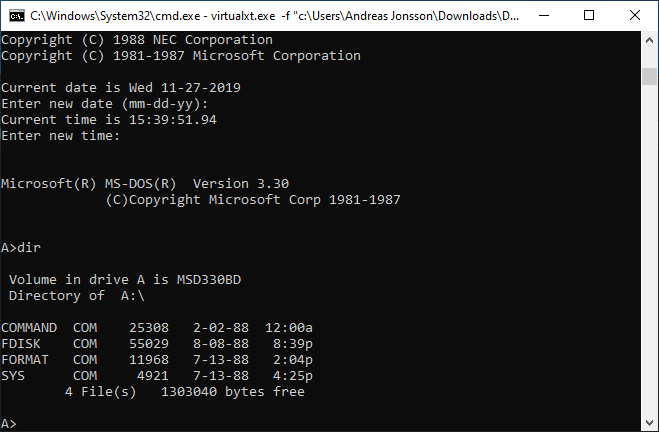
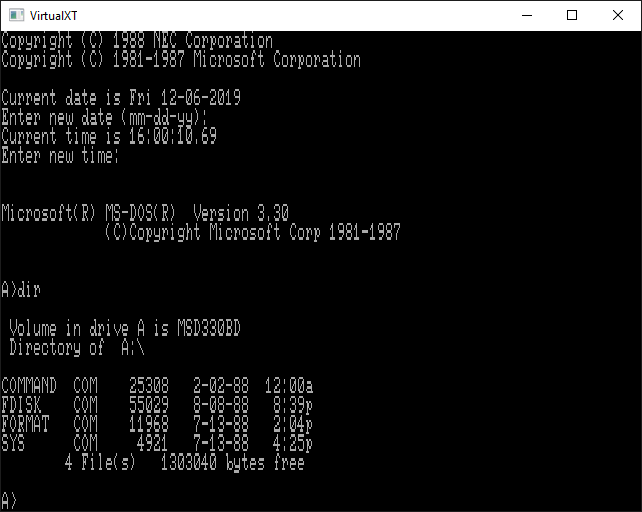
Updated images and fixed issue with cursor.

diff --git a/src/virtualxt.c b/src/virtualxt.c
@@ -171,8 +171,8 @@ static void textmode(unsigned char *mem, unsigned char *font, unsigned char curs
 		blit_char(sdl_surface, font, ch, mem[i+1], (index % 80) * 8, (index / 80) * 8);
 	}
 
-	if (cursor)
-		blit_char(sdl_surface, font, '_', 0x8F, cx * 8, cy * 8);
+	if (cursor && vxt_blink(e))
+		blit_char(sdl_surface, font, '_', (mem[160*cy+cx*2+1] & 0x70) | 0xF, cx * 8, cy * 8);
 
 	SDL_UpdateTexture(sdl_texture, 0, sdl_surface->pixels, sdl_surface->pitch);
 	SDL_RenderCopy(sdl_renderer, sdl_texture, 0, 0);
